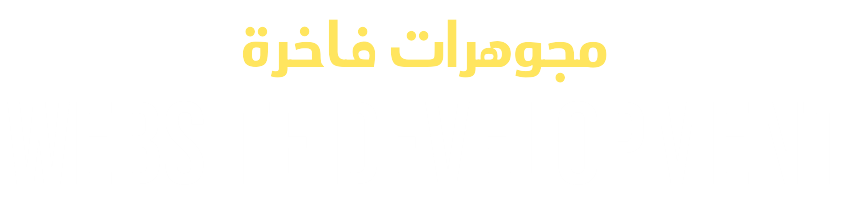
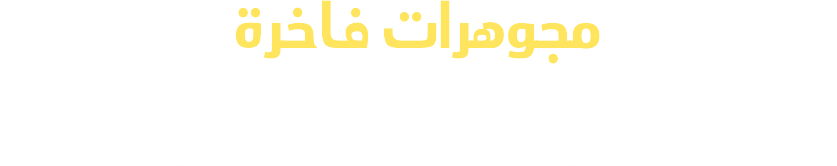
Add files via upload

Changed region(s): [[0.2796, 0.0, 0.7145, 0.3916]]

diff --git a/index.html b/index.html
@@ -30,7 +30,6 @@
 
         .bg {
             width: 100%;
-            height: 90px;
             display: flex;
             justify-content: center;
             align-items: center;
@@ -38,6 +37,12 @@
             margin-top: 25px;
             position: relative;
 
+        }
+
+        .bg img {
+            width: 90%;
+            max-width: 150px;
+            padding: 20px 0;
         }
 
         .home {
@@ -87,7 +92,8 @@
             justify-content: space-between;
             align-items: center;
             width: 100%;
-            height: 125px;
+            max-width: 600px;
+            margin: 0 auto;
             position: relative;
         }
 
@@ -160,12 +166,16 @@
             display: flex;
             justify-content: space-evenly;
             align-items: center;
+            max-width: 600px;
+            margin: 0 auto;
 
         }
 
+        .contacts > div {
+            width: 33.333%;
+        }
+
         .circle1 {
-            width: 50px;
-            height: 50px;
             border-radius: 50%;
             background-image: url(imgs/8.png);
             background-position: center;
@@ -175,8 +185,6 @@
         }
 
         .circle2 {
-            width: 50px;
-            height: 50px;
             border-radius: 50%;
             background-image: url(imgs/9.png);
             background-position: center;
@@ -186,8 +194,6 @@
         }
 
         .circle3 {
-            width: 50px;
-            height: 50px;
             border-radius: 50%;
             background-image: url(imgs/10.png);
             background-position: center;
@@ -196,9 +202,14 @@
             background-color: #683C5A;
         }
 
+        .circle1, .circle2, .circle3 {
+            width: 60px;
+            height: 60px;
+        }
+
         .circle4 {
-            width: 30px;
-            height: 20px;
+           width: 40px;
+           height: 40px;
             border-radius: 50%;
             /* background-image: url(imgs/7.png); */
             background-position: center;
@@ -211,8 +222,8 @@
         }
 
         .circle5 {
-            width: 30px;
-            height: 20px;
+           width: 40px;
+           height: 40px;
             border-radius: 50%;
             /* background-image: url(imgs/6.png); */
             background-position: center;
@@ -345,20 +356,20 @@
             justify-content: center;
             align-items: center;
             position: relative;
-            display: inline-block;
-
+            width: 100%;
         }
 
         .inactive-img,
         .active-img {
-            width: 90px;
-            height: 90px;
+            width: 100%;
+            max-width: 130px;
+            height: 170px;
             transition: transform 0.3s ease-in-out;
         }
 
         .active-img {
-            height: 120px;
-            width: 120px;
+            height: 200px;
+            max-width: 200px;
             transform: scale(1);
         }
 
@@ -412,49 +423,42 @@
             background-position: center;
             background-size: cover;
             background-repeat: no-repeat;
-            width: 90%;
-            height: 60px;
+            width: 100%;
+        }
+        
+        .paragraph img {
+            width: 100%;
         }
 
         .top {
-            background-image: url(imgs/15.png);
-            border-bottom: #FFE55E solid;
+            border-bottom: 2px #FFE55E solid;
+            width: 90%;
+            max-width: 500px;
+            margin-top: 1em;
         }
 
         .bot {
-            background-image: url(imgs/4.png);
-            margin-bottom: 0px;
-            margin-top: -3px;
-
+            width: 90%;
+            max-width: 500px;
+            margin: 2em 0;
         }
 
         /* Media Queries for Responsiveness */
 
         @media (min-width: 480px) and (max-width: 600px) {
-            .bot {
-                max-width: 60%;
-                height: 65px;
-                margin: 0 auto;
-            }
-
-            .top {
-                max-width: 54%;
-                height: 65px;
-                margin: 0 auto;
-            }
             .footerHome{
                 left:40% ;
             }
-            .active-img{
+            /* .active-img{
                 width: 130px;
                 height: 130px;
                 transform: scale(1);
-            }
-            .inactive-img{
+            } */
+            /* .inactive-img{
                 width: 110px;
                 height: 110px;
                 transform: scale(1);
-            }
+            } */
             .carousel {
                 width: 100%;
             }
@@ -467,21 +471,10 @@
         }
 
         @media (min-width: 840px) and (max-width: 1440px) {
-            .bot {
-                max-width: 25% !important;
-                height: 65px;
-                margin: 0 auto;
-            }
-
-            .top {
-                max-width: 25% !important;
-                height: 65px;
-                margin: 0 auto;
-            }
             .footerHome{
                 left:40% ;
             }
-            .active-img{
+            /* .active-img{
                 width: 130px;
                 height: 130px;
                 transform: scale(1);
@@ -490,7 +483,7 @@
                 width: 110px;
                 height: 110px;
                 transform: scale(1);
-            }
+            } */
             .carousel {
                 width: 100%;
             }
@@ -503,21 +496,11 @@
         }
 
         @media (min-width: 601px) and (max-width: 779px) {
-            .bot {
-                max-width: 50%;
-                height: 65px;
-                margin: 0 auto;
-            }
 
-            .top {
-                max-width: 43%;
-                height: 65px;
-                margin: 0 auto;
-            }
             .footerHome{
                 left:40% ;
-            }
-            .active-img{
+         }
+        /*    .active-img{
                 width: 130px;
                 height: 130px;
                 transform: scale(1);
@@ -526,30 +509,11 @@
                 width: 110px;
                 height: 110px;
                 transform: scale(1);
-            }
+            } */
 
-        }
-
-        @media (min-width: 347px) and (max-width: 480px) {
-            .bot {
-                max-width: 80%;
-                height: 65px;
-                margin: 0 auto;
-            }
-
-            .top {
-                max-width: 74%;
-                height: 65px;
-                margin: 0 auto;
-            }
         }
 
         @media (min-width: 768px) {
-            .paragraph {
-                max-height: 65px;
-                max-width: 38%;
-            }
-
             .center h1 {
                 font-size: 20px;
             }
@@ -625,8 +589,12 @@
             </span> -->
             <!-- <p>نحن نبيع ونشتري أرقى الذهب والمجوهرات المستعملة بأسعار يمكن الوصول إليها بسهولة وبضمان فضي</p> -->
 
-            <div class="paragraph top"></div>
-            <div class="paragraph bot"></div>
+            <div class="paragraph top">
+                <img src="./imgs/15.png">
+            </div>
+            <div class="paragraph bot">
+                <img src="./imgs/14.png">
+            </div>
 
         </div>
 
@@ -639,7 +607,7 @@
                     <div class="inactive-img carousel-image1"></div>
                     <!-- <div class="dark-overlay"></div> -->
                 </div>
-                <div>
+                <div class="image-container">
                     <div class="active-img carousel-image2"></div>
                 </div>
                 <div class="image-container">
